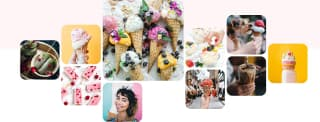
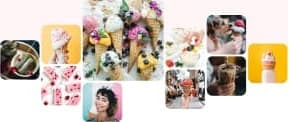
change photo gallery

diff --git a/src/sass/components/_gallery.scss b/src/sass/components/_gallery.scss
@@ -1,18 +1,20 @@
 .gallery {
   background-image: linear-gradient(to top, #ffffff 61%, #fff5f6 61%, #fff5f6);
 }
-// .gallery__wrap {
-//   @extend %adaptive-container;
-// }
-.gallery__image {
-  display: block;
-  min-width: 100%;
-  width: 364px;
-
+.gallery__wrap {
+  @extend %adaptive-container;
   @media screen and (min-width: 768px) {
     width: 786px;
+    padding-left: 40px;
+    padding-right: 40px;
   }
   @media screen and (min-width: 1280px) {
     width: 1280px;
+    padding-left: 20px;
+    padding-right: 20px;
   }
+}
+.gallery__image {
+  display: block;
+  width: 100%;
 }
